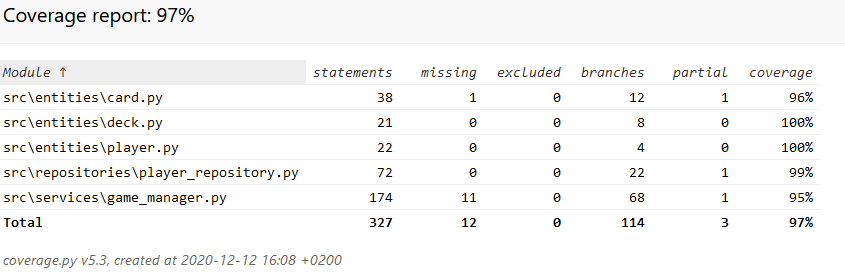
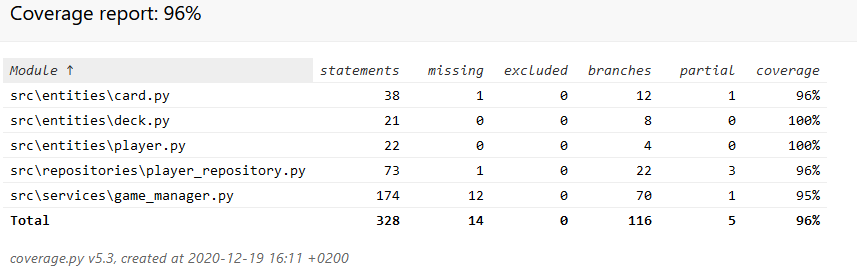
Update coverage percentage

diff --git a/dokumentaatio/testausdokumentti.md b/dokumentaatio/testausdokumentti.md
@@ -18,7 +18,7 @@ Sovelluslogiikasta vastaavaa `GameManager`-luokkaa testataan [TestGameManager](.
 
 ### Testauskattavuus
 
-Käyttöliittymäkerrosta lukuunottamatta sovelluksen testauksen haaraumakattavuus on 97%.
+Käyttöliittymäkerrosta lukuunottamatta sovelluksen testauksen haaraumakattavuus on 96%.
 
 ![testikattavuus.png](kuvat/testikattavuus.png)
 
